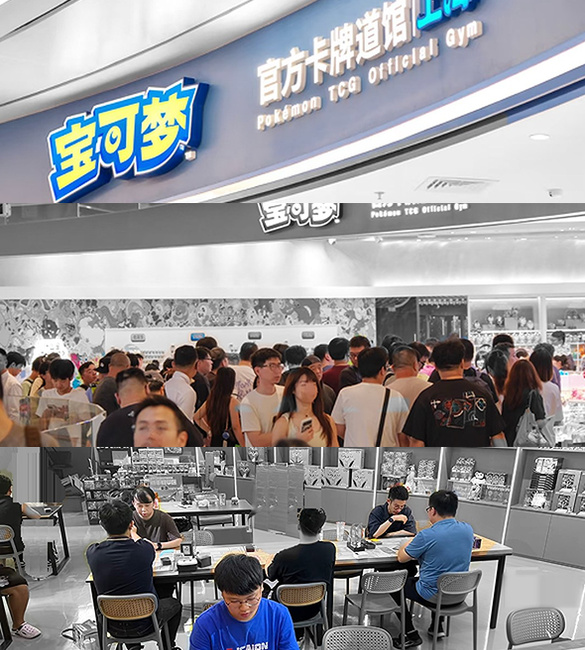
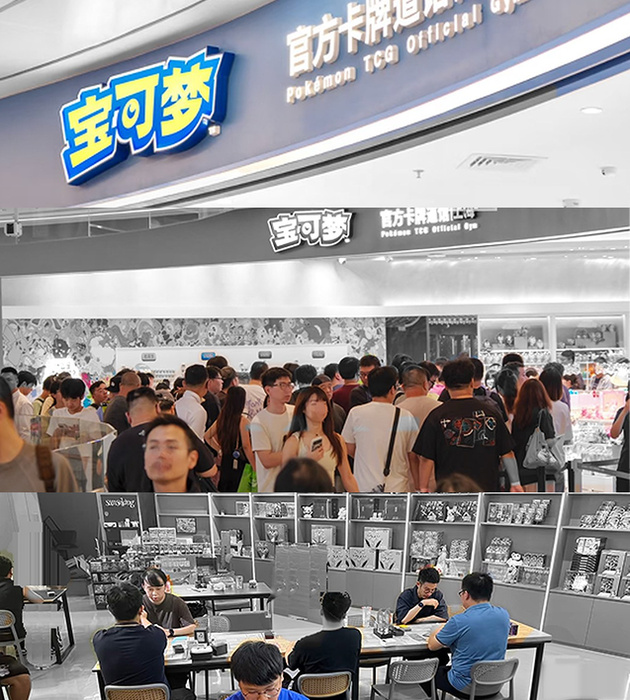
Replace the 75% photo with the 630 by 700 gym collage.
Only this JPEG and its width and height change. The 9:10 frame and alt text stay the same.

diff --git a/src/components/ProjectStory.tsx b/src/components/ProjectStory.tsx
@@ -120,8 +120,8 @@ export function ProjectStory() {
           <StoryPhoto
             src={photo75Src}
             alt="Pokémon TCG Official Gym in Shanghai: the storefront sign, a crowded shop, and people playing at tables."
-            width={585}
-            height={650}
+            width={630}
+            height={700}
           />
           <p className="story-source">Source: Circana, March 2025</p>
           <div className="stat-photo-copy">
